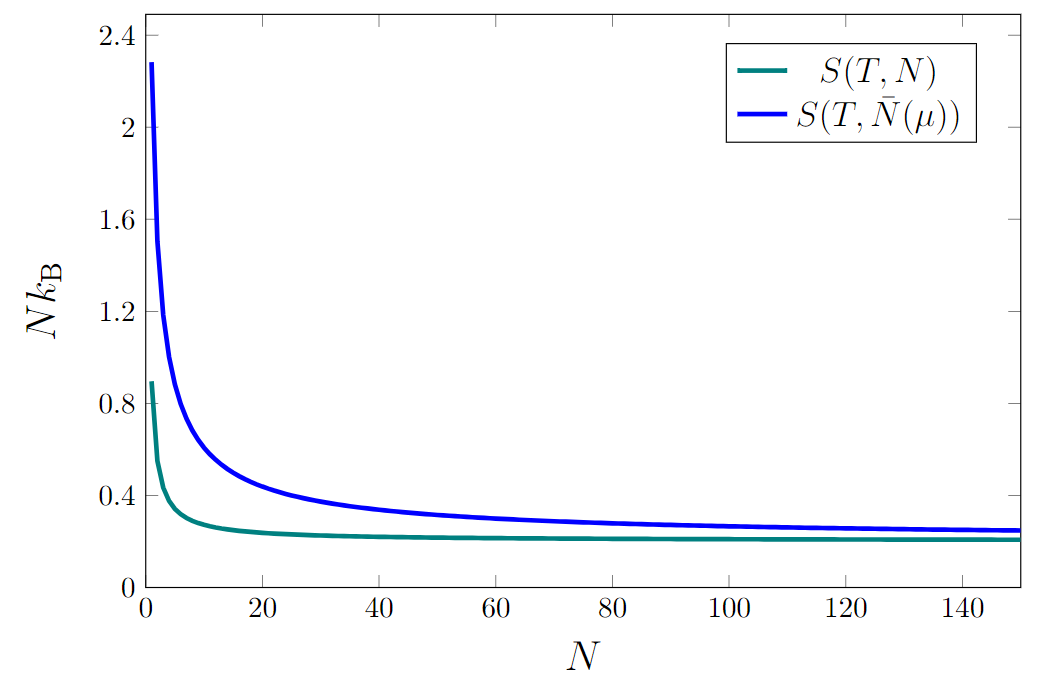
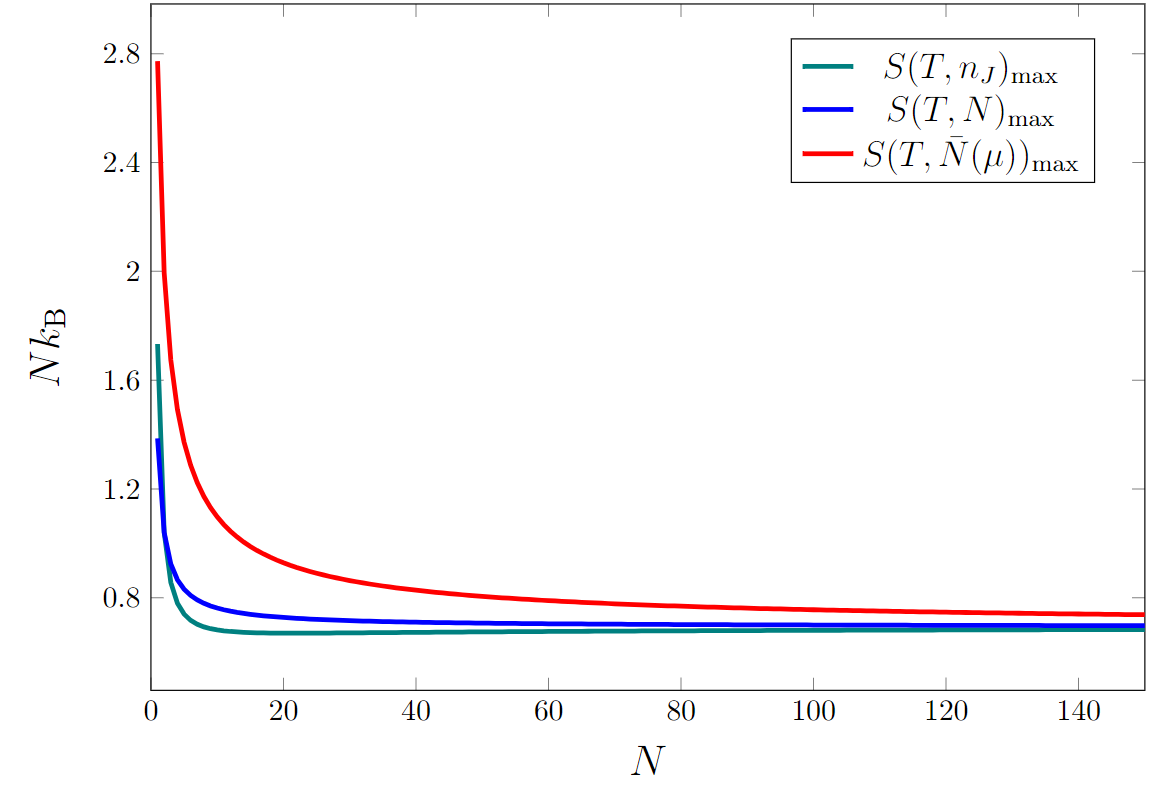
sep5

diff --git a/electric_magnetic.md b/electric_magnetic.md
@@ -175,8 +175,7 @@ $$(epsilon_ising)
 
 ```
 
-$(c)$ Banatze-potentzialaren adierazpen horretatik, kalkulatu $S(T,\mu)$ eta $\bar{N}$. Ondoren, birmoldatu entropiaren ekuazioa $S(T,\bar{N}(\mu))$
-adierazpenera heltzeko.
+$(c)$ Banatze-potentzialaren adierazpen horretatik, kalkulatu $S(T,\mu)$ eta $\bar{N}$. Ondoren, birmoldatu entropiaren ekuazioa $S(T,\bar{N}(\mu))$ adierazpenera heltzeko, eta maximizatu berori.
 
 ```{dropdown} __Erantzuna__
 
@@ -198,11 +197,19 @@ $$
 \boxed{S(T,\bar{N}(\mu)) = \bar{N}\left[ k_{\mathrm{B}}\ln\left(2\;\frac{\bar{N}+1}{\bar{N}}\;\cosh\frac{J}{k_{\mathrm{B}}T}\right) - \frac{J}{T}\;\tanh\frac{J}{k_{\mathrm{B}}T}\right] + k_{\mathrm{B}}\ln\left[2(\bar{N}+1)\right]} \; .
 $$ (s_tbarn_ising)
 
+Funtzio horrek ere maximoa du $\frac{J}{k_{\mathrm{B}}T} = 0$ puntuan:
+
+$$
+S(T, \bar{N}(\mu))_{\text{max}} = \bar{N}k_{\mathrm{B}}\ln \left(2\frac{\bar{N}+1}{\bar{N}}\right) + k_{\mathrm{B}}\ln\left[2(\bar{N}+1)\right] \; ,
+$$ (s_max_nanokano)
+
+zeinaren limite makroskopikoa, berriz ere, $\bar{N}k_{\mathrm{B}}\ln 2$ den.
+
 ```
 
 **----------------------------------------------------**
 
-Behin $S(T, N)$ eta $S(T,\bar{N}(\mu))$ adierazpenak kalkulatuz gero, adierazgarria litzateke bien arteko alderaketa egitea, sistemaren tamainaren araberako bilakaerari erreparatuz:
+Behin $S(T, n_J)_{\mathrm{max}}$, $S(T, N)_{\mathrm{max}}$ eta $S(T,\bar{N}(\mu))_{\mathrm{max}}$ adierazpenak kalkulatuz gero, adierazgarria litzateke hiruren arteko alderaketa egitea, sistemaren tamainaren araberako bilakaerari erreparatuz:
 
 ```{figure} ising_1_s.png
 ---
